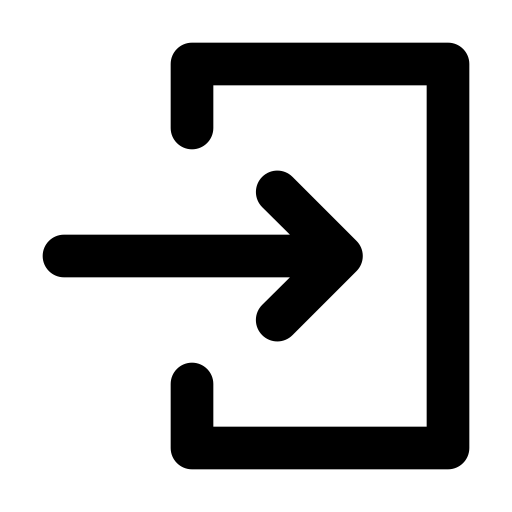
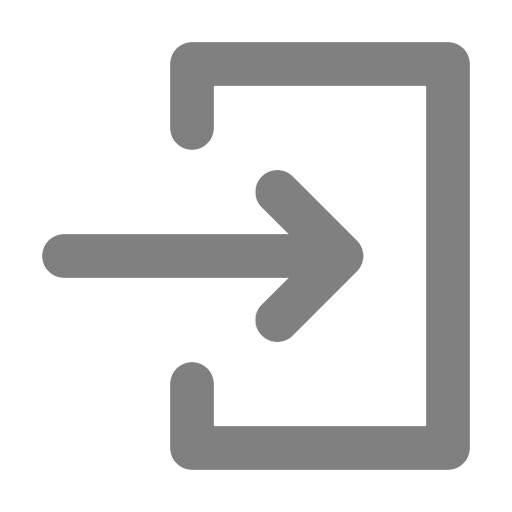
Login page tweaks

Changed region(s): [[0.3125, 0.0625, 0.9375, 0.9375], [0.0625, 0.3125, 0.7188, 0.6875]]

diff --git a/evolUX.UI/wwwroot/js/snake.js b/evolUX.UI/wwwroot/js/snake.js
@@ -33,6 +33,23 @@ document.querySelector('#emaillogin').addEventListener('input', function (e) {
     });
 });
 
+document.querySelector('#emaillogin').addEventListener('mouseenter', function (e) {
+    if (current) current.pause();
+    current = anime({
+        targets: 'path',
+        strokeDashoffset: {
+            value: 0,
+            duration: 700,
+            easing: 'easeOutQuart'
+        },
+        strokeDasharray: {
+            value: '240 1386',
+            duration: 700,
+            easing: 'easeOutQuart'
+        }
+    });
+});
+
 document.querySelector('#passwordlogin').addEventListener('focus', function (e) {
     if (current) current.pause();
     current = anime({
@@ -51,6 +68,23 @@ document.querySelector('#passwordlogin').addEventListener('focus', function (e) 
 });
 
 document.querySelector('#passwordlogin').addEventListener('input', function (e) {
+    if (current) current.pause();
+    current = anime({
+        targets: 'path',
+        strokeDashoffset: {
+            value: -348,
+            duration: 700,
+            easing: 'easeOutQuart'
+        },
+        strokeDasharray: {
+            value: '240 1386',
+            duration: 700,
+            easing: 'easeOutQuart'
+        }
+    });
+});
+
+document.querySelector('#passwordlogin').addEventListener('mouseenter', function (e) {
     if (current) current.pause();
     current = anime({
         targets: 'path',

diff --git a/evolUX.UI/wwwroot/css/snake.css b/evolUX.UI/wwwroot/css/snake.css
@@ -63,16 +63,20 @@
     border: none;
     background: none;
     padding: 10px;
-    padding-left: 35px;
+    padding-left: 10px;
     font-weight: 700;
-    width: 75%;
+    width: 90%;
     transition: .2s;
+    position: relative;
+    left: 40px;
 }
 
 .login__icon {
     position: absolute;
     top: 30px;
-    width: 33px;
+    left: 5px;
+    width: 25px;
+    color: var(--evol-grey);
 }
 
 .login__submit {
